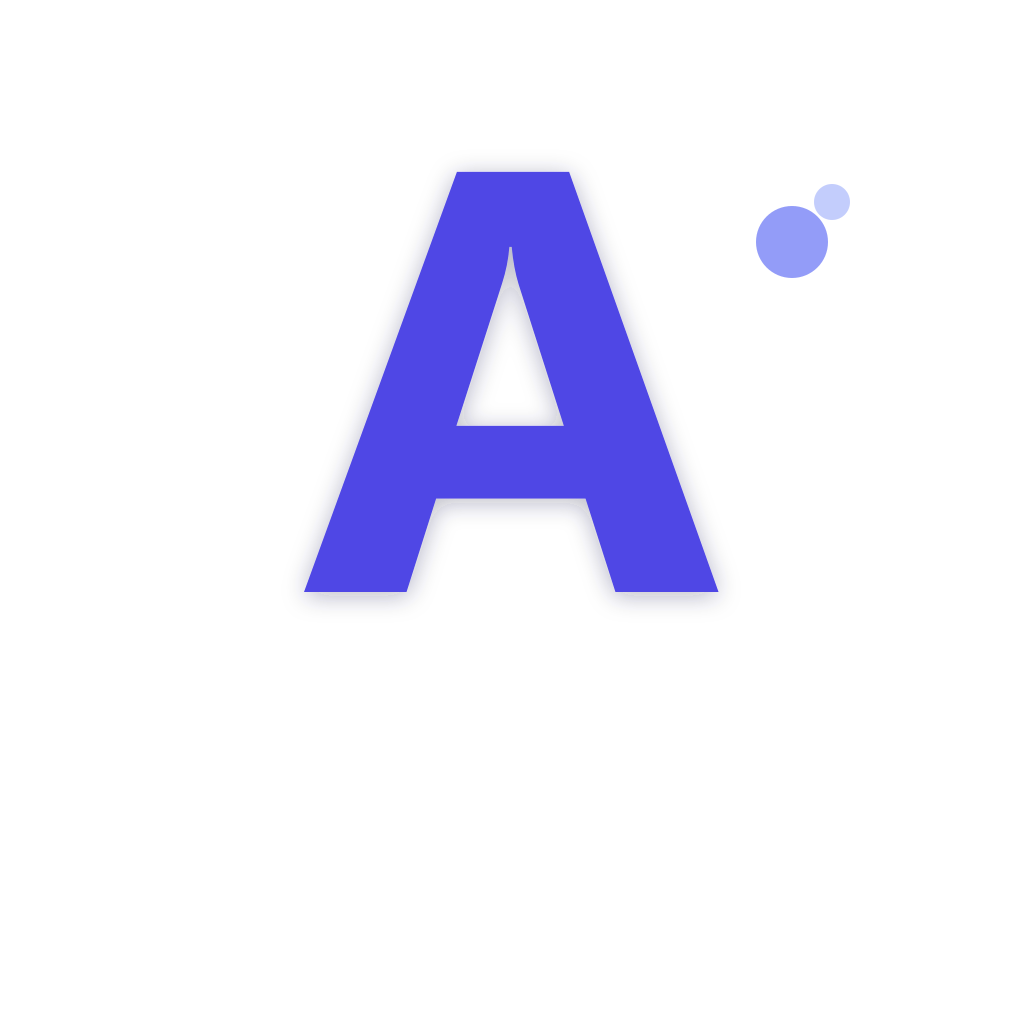
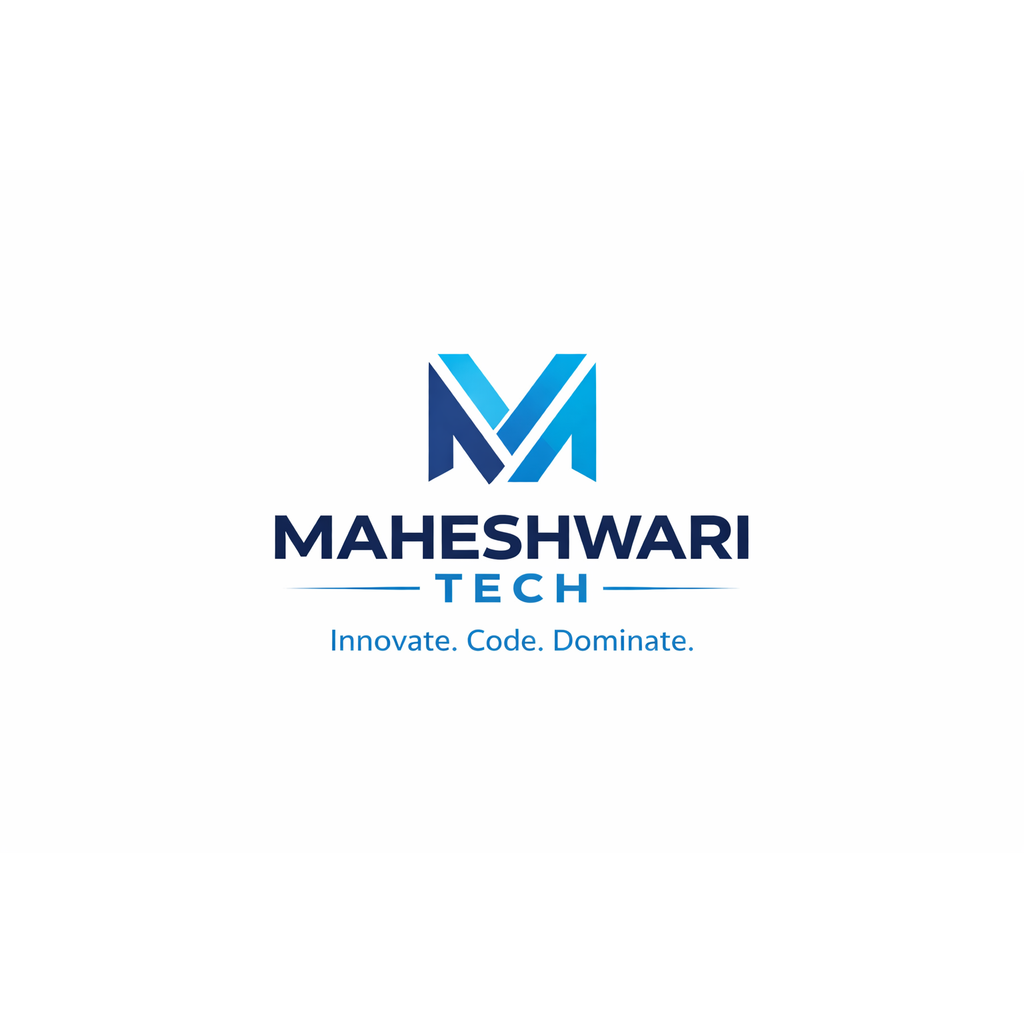
Changes have been made

Changed region(s): [[0.25, 0.1562, 0.75, 0.6562], [0.7188, 0.1875, 0.8438, 0.2812]]

diff --git a/Mobile App/index.js b/Mobile App/index.js
@@ -4,23 +4,36 @@ import 'react-native-gesture-handler';
 import { registerRootComponent } from 'expo';
 import App from './App';
 
-// Set up global error handler to catch any unhandled errors that might
-// otherwise silently prevent AppRegistry.registerComponent from being called
+// ── Global JS Error Handler ──────────────────────────────────────────
+// Wraps ErrorUtils.setGlobalHandler safely; in some RN 0.81 / New Arch
+// configurations the API shape differs, so we check the type before
+// assigning.
 if (typeof ErrorUtils !== 'undefined') {
-  const originalHandler = ErrorUtils.getGlobalHandler && ErrorUtils.getGlobalHandler();
-  ErrorUtils.setGlobalHandler((error, isFatal) => {
-    console.error('[GlobalErrorHandler]', error?.message, error?.stack);
-    if (originalHandler) {
-      originalHandler(error, isFatal);
-    }
-  });
+  const originalHandler =
+    typeof ErrorUtils.getGlobalHandler === 'function'
+      ? ErrorUtils.getGlobalHandler()
+      : null;
+
+  if (typeof ErrorUtils.setGlobalHandler === 'function') {
+    ErrorUtils.setGlobalHandler((error, isFatal) => {
+      console.error('[GlobalErrorHandler]', error?.message, error?.stack);
+      if (typeof originalHandler === 'function') {
+        originalHandler(error, isFatal);
+      }
+    });
+  }
 }
 
-// Catch unhandled promise rejections
-if (typeof process !== 'undefined' && process.on) {
-  process.on('unhandledRejection', (reason) => {
-    console.error('[UnhandledRejection]', reason);
-  });
+// ── Unhandled Promise Rejections ─────────────────────────────────────
+// Hermes / RN does not always expose process.on – guard safely.
+try {
+  if (typeof process !== 'undefined' && typeof process.on === 'function') {
+    process.on('unhandledRejection', (reason) => {
+      console.error('[UnhandledRejection]', reason);
+    });
+  }
+} catch {
+  // process.on may throw in some environments
 }
 
 // Explicitly register the root component for Expo SDK 52 + Bridgeless mode

diff --git a/Mobile App/src/components/AdBanner.tsx b/Mobile App/src/components/AdBanner.tsx
@@ -39,13 +39,23 @@ export default function AdBanner({ size = 'banner' }: AdBannerProps) {
       return;
     }
 
-    const mod = require('react-native-google-mobile-ads');
-    setAdState({
-      status: 'ready',
-      BannerAd: mod.BannerAd,
-      BannerAdSize: mod.BannerAdSize,
-      TestIds: mod.TestIds,
-    });
+    try {
+      const mod = require('react-native-google-mobile-ads');
+      if (mod && mod.BannerAd && mod.BannerAdSize && mod.TestIds) {
+        setAdState({
+          status: 'ready',
+          BannerAd: mod.BannerAd,
+          BannerAdSize: mod.BannerAdSize,
+          TestIds: mod.TestIds,
+        });
+      } else {
+        console.warn('[AdBanner] Module loaded but exports are incomplete');
+        setAdState({ status: 'unavailable' });
+      }
+    } catch (err) {
+      console.warn('[AdBanner] Failed to load ad module:', err);
+      setAdState({ status: 'unavailable' });
+    }
   }, []);
 
   const REAL_AD_UNIT_ID = 'ca-app-pub-4912868489225376/9429127408';

diff --git a/Mobile App/App.tsx b/Mobile App/App.tsx
@@ -19,15 +19,26 @@ import ParentNavigator from './src/screens/parent/ParentNavigator';
 function AppContent() {
   const { isAuthenticated, user, isLoading } = useAuth();
 
-  // ── AdMob initialization (only in dev builds, not Expo Go) ────────
+  // ── AdMob initialization ───────────────────────────────────────────
+  // Only runs in native builds (not Expo Go). Must safely handle the
+  // dynamic require because the module may not export what we expect in
+  // all React Native / New Architecture configurations.
   useEffect(() => {
     const hasAdMob =
       NativeModules.RNGoogleMobileAdsModule != null ||
       TurboModuleRegistry?.get('RNGoogleMobileAdsModule') != null;
 
-    if (hasAdMob) {
-      const { mobileAds } = require('react-native-google-mobile-ads');
-      mobileAds().initialize();
+    if (!hasAdMob) return;
+
+    try {
+      const adMobModule = require('react-native-google-mobile-ads');
+      if (adMobModule && typeof adMobModule.mobileAds === 'function') {
+        adMobModule.mobileAds().initialize();
+      } else {
+        console.warn('[AdMob] module loaded but mobileAds() is not a function');
+      }
+    } catch (err: any) {
+      console.warn('[AdMob] Failed to initialize:', err?.message ?? err);
     }
   }, []);
 

diff --git a/Mobile App/src/lib/supabase.ts b/Mobile App/src/lib/supabase.ts
@@ -8,10 +8,14 @@ let supabaseAnonKey = process.env.EXPO_PUBLIC_SUPABASE_ANON_KEY || '';
 // ─── Fall back to expo-constants (app.json extra fields) ────────────────
 if (!supabaseUrl || !supabaseAnonKey) {
   try {
-    const Constants = require('expo-constants').default;
-    const extra = Constants.expoConfig?.extra || {};
-    supabaseUrl = supabaseUrl || extra.supabaseUrl || '';
-    supabaseAnonKey = supabaseAnonKey || extra.supabaseAnonKey || '';
+    const expoConstants = require('expo-constants');
+    // expo-constants may export as default, as a named export, or directly
+    const Constants = expoConstants.default || expoConstants;
+    if (Constants && Constants.expoConfig) {
+      const extra = Constants.expoConfig?.extra || {};
+      supabaseUrl = supabaseUrl || extra.supabaseUrl || '';
+      supabaseAnonKey = supabaseAnonKey || extra.supabaseAnonKey || '';
+    }
   } catch {
     // expo-constants not available
   }

diff --git a/Mobile App/src/screens/admin/ClassroomScreen.tsx b/Mobile App/src/screens/admin/ClassroomScreen.tsx
@@ -10,9 +10,9 @@ import {
   Alert,
   Modal,
   Linking,
-  SafeAreaView,
   Platform,
 } from 'react-native';
+import { SafeAreaView } from 'react-native-safe-area-context';
 import { WebView } from 'react-native-webview';
 import { supabase, isUuid } from '../../lib/supabase';
 import { useAuth, AdminUser } from '../../contexts/AuthContext';

diff --git a/Mobile App/src/screens/admin/WhatsAppScreen.tsx b/Mobile App/src/screens/admin/WhatsAppScreen.tsx
@@ -10,8 +10,8 @@ import {
   ActivityIndicator,
   Modal,
   RefreshControl,
-  SafeAreaView,
 } from 'react-native';
+import { SafeAreaView } from 'react-native-safe-area-context';
 import { supabase, isUuid } from '../../lib/supabase';
 import { useAuth, AdminUser } from '../../contexts/AuthContext';
 import StatCard from '../../components/StatCard';

diff --git a/Mobile App/src/screens/teacher/WhatsAppScreen.tsx b/Mobile App/src/screens/teacher/WhatsAppScreen.tsx
@@ -10,8 +10,8 @@ import {
   ActivityIndicator,
   Modal,
   RefreshControl,
-  SafeAreaView,
 } from 'react-native';
+import { SafeAreaView } from 'react-native-safe-area-context';
 import { supabase, isUuid } from '../../lib/supabase';
 import { useAuth, TeacherUser } from '../../contexts/AuthContext';
 import StatCard from '../../components/StatCard';